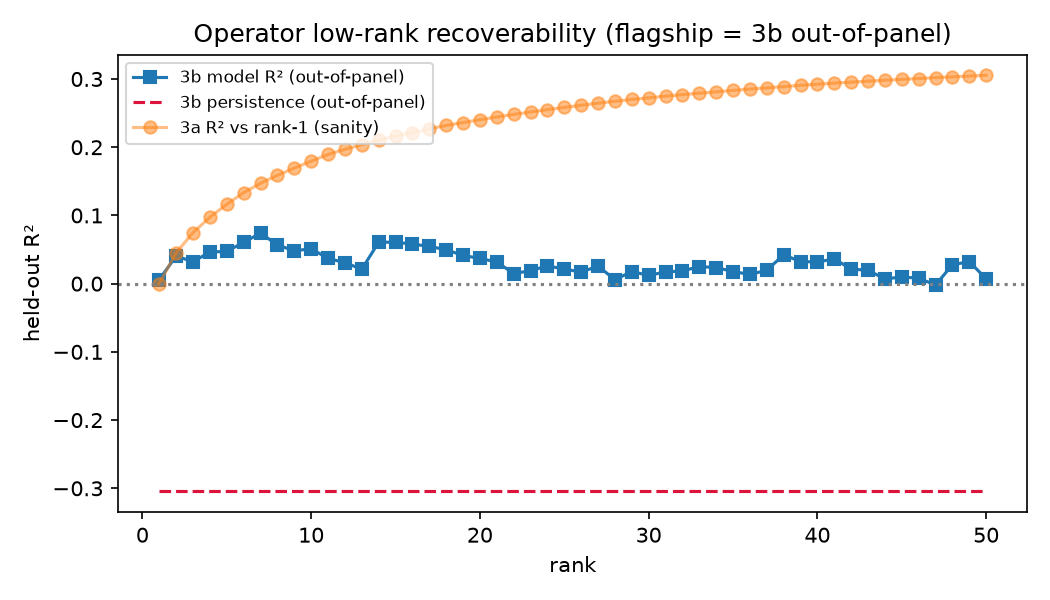
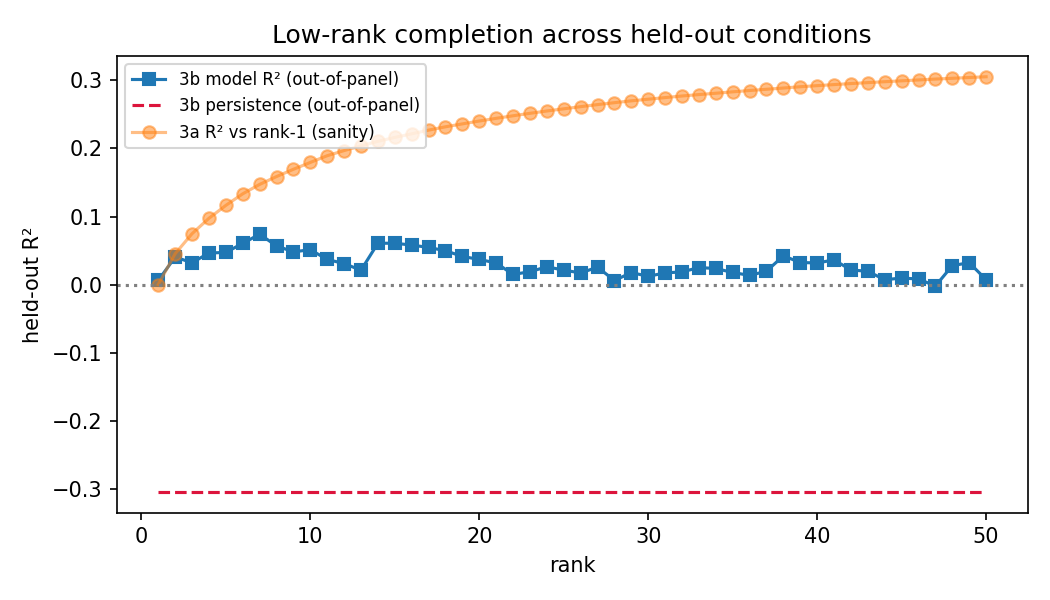
manuscript: final editorial pass — de-flagship, soften overclaims, harmonize, terminology, Code availability
Reviewer's final polish:
1. Figure 2 title 'Operator low-rank recoverability (flagship = 3b out-of-panel)'
   -> 'Low-rank completion across held-out conditions' (regenerated from the frozen
   _3106 completion CSVs, curves unchanged; script title also fixed).
2. §3 closing 'convert the operator ... into a predictive object' -> 'establish the
   operator as a shared structure that supports condition completion' (so it does not
   compete with the inductive null).
3. Complex I: harmonize '8 of 13 holoenzyme subunits' with the figure's '10 NDUF*'
   -> '8 of the 13 CORUM holoenzyme members, with 10 NDUF-family genes present in the
   community overall'.
4. DOCK2/RPE1: drop the extra inference from absence -> 'its absence is consistent
   with the essential-scale design and prevents direct validation of the anchor'.
5. §4.2 'the partition is real' -> 'the community structure is strongly supported
   relative to the matched null'.
6. Terminology: reserve 'unseen regulators' for the inductive case; §3 and the Fig S1
   caption now say 'out-of-panel regulators' for transductive completion.
7. Remove ALL inline .py (and CLI-flag / internal-identifier) citations from Methods;
   add a consolidated 'Code availability' section listing the scripts by analysis.

PDF rebuilt clean.

diff --git a/scripts/operator_completion.py b/scripts/operator_completion.py
@@ -113,7 +113,7 @@ def main():
     ax.plot(ce["rank"], ce["r2_persistence_novel"], "--", c="crimson", label="3b persistence (out-of-panel)")
     ax.plot(ew["rank"], ew["r2_vs_rank1"], "o-", alpha=0.5, label="3a R² vs rank-1 (sanity)")
     ax.axhline(0, ls=":", c="grey"); ax.set_xlabel("rank"); ax.set_ylabel("held-out R²")
-    ax.legend(fontsize=8); ax.set_title("Operator low-rank recoverability (flagship = 3b out-of-panel)")
+    ax.legend(fontsize=8); ax.set_title("Low-rank completion across held-out conditions")
     fig.tight_layout(); fig.savefig(FIG / "35_operator_completion_curve.png", dpi=150)
 
     print(f"[3b FLAGSHIP] out-of-panel n={int(ce.n_test_novel.iloc[0])}; "

diff --git a/docs/manuscript/08_methods.md b/docs/manuscript/08_methods.md
@@ -21,7 +21,7 @@ standardized at the layer level across the full regulator population rather than
 
 ## Operator tensor construction
 
-The operator is assembled as a regulator × gene × condition tensor (`build_operator_tensor.py`).
+The operator is assembled as a regulator × gene × condition tensor.
 Genes are the top-variance panel (2,000 genes by default). Regulators are selected by a
 per-condition cell-count floor (retaining regulators above the median), which yields 3,106
 regulators for the escalated analysis and 800 for the validation pilot. After the z-score fetch, a
@@ -32,8 +32,8 @@ passes at ρ = −0.006, and a power gate on the leading singular subspace holds
 ## CP decomposition
 
 The tensor is decomposed with a masked CANDECOMP/PARAFAC factorization
-(`decompose_operator_cp.py`; `tensorly` `parafac` with a missingness mask, `n_iter_max = 400`,
-`n_init = 10`, `random_state = 0`). Before fitting, condition slabs are RMS scale-controlled so
+(`tensorly` `parafac` with a missingness mask, `n_iter_max = 400`, `n_init = 10`,
+`random_state = 0`). Before fitting, condition slabs are RMS scale-controlled so
 that a single high-variance condition cannot dominate the fit. Rank is selected by split-half
 stability: for each candidate rank we compute the matched-factor cosine between decompositions of
 two random halves (subsample 400), and take the largest rank whose stability exceeds 0.70. Each
@@ -46,20 +46,18 @@ rotation change, `tol = 1e-6`).
 
 ## Out-of-panel completion
 
-Predictive structure is assessed by low-rank matrix completion of a held-out condition fiber
-(`operator_completion.py`, kernels in `scripts/_opkernels.py`). We hold out the late-stimulation
-(Stim48hr) entries of regulators outside the original variance-selected panel (a seed-0 20%
-sample; `--holdout 0.2 --seed 0`), fit a low-rank model to the remaining entries, and predict the
-held-out fiber. Standardization is computed on the training entries only
-(`train_test_standardize`, centering each gene on its train-mask values) to prevent leakage.
-Completion uses soft-impute with a truncated SVD (`soft_impute`, `n_iter = 100`, `tol = 1e-4`); the
-truncated solver (`scipy.sparse.linalg.svds`) is numerically identical to a full-SVD soft-impute to
-machine precision (a regression test asserts agreement to ~1e-13) and is roughly an order of
-magnitude faster. The baseline is persistence — predicting the late-stimulation response equals the
+Predictive structure is assessed by low-rank matrix completion of a held-out condition fiber. We
+hold out the late-stimulation (Stim48hr) entries of regulators outside the original
+variance-selected panel (a seed-0 20% sample), fit a low-rank model to the remaining entries, and
+predict the held-out fiber. Standardization is computed on the training entries only (centering each
+gene on its train-mask values) to prevent leakage. Completion uses soft-impute with a truncated SVD
+(`n_iter = 100`, `tol = 1e-4`); the truncated solver is numerically identical to a full-SVD
+soft-impute to machine precision (a regression test asserts agreement to ~1e-13) and is roughly an
+order of magnitude faster. The baseline is persistence — predicting the late-stimulation response equals the
 early-stimulation one. We report the model−persistence margin per rank, and stratify the held-out
-regulators by knockdown strength (`operator_completion_stratified.py`), with the stratum thresholds
-hardcoded and documented in that script: a median split on effect strength, and a panel-matched
-stratum (regulators at least as strong as the median in-panel regulator).
+regulators by knockdown strength, with the stratum thresholds documented alongside the results: a
+median split on effect strength, and a panel-matched stratum (regulators at least as strong as the
+median in-panel regulator).
 
 ## K562 cross-cell-type concordance
 
@@ -80,11 +78,11 @@ sign and magnitude of their concordance Z-score.
 
 ## Reproducibility
 
-The full operator pipeline runs from `make operator` (tensor → SVD → CP → completion → donor
-angles). Numerical kernels are isolated in `scripts/_opkernels.py` and covered by a unit-test suite
-(17 tests, `tests/test_opkernels.py`), including the svds/full-SVD equivalence regression test.
-Random seeds are fixed (`random_state = 0`, `--seed 0`) throughout. All result tables cited in the
-text are written to `docs/tables/` with a `_3106` suffix for the escalated analysis, and the
+The full operator pipeline runs end-to-end from a single build command (tensor → SVD → CP →
+completion → donor angles). Numerical kernels are isolated in a tested module (17 unit tests),
+including the truncated-SVD/full-SVD equivalence regression test. Random seeds are fixed
+(`random_state = 0`) throughout. All result tables cited in the text are written to `docs/tables/`
+with a `_3106` suffix for the escalated analysis, and the
 pilot-scale tables are retained alongside them so the pilot↔escalation comparison is itself
 reproducible from disk.
 
@@ -101,8 +99,7 @@ Leiden (RBConfiguration objective) swept over resolution and 50 seeds (500 parti
 into a consensus co-assignment and re-clustered; communities with mean intra-community co-assignment
 s_c ≥ 0.8 are stability-gated. Consensus modularity was compared to a label-permutation null
 (z = 259). Community identity was tested by hypergeometric CORUM enrichment (BH-FDR) over complexes
-with ≥ 2 panel members. (`scripts/operator_communities.py`, `operator_community_null.py`,
-`operator_community_identity.py`.)
+with ≥ 2 panel members.
 
 ## Disease-risk enrichment of communities
 
@@ -111,7 +108,6 @@ Autoimmune genetic-risk load per community was the summed per-gene maximum Open 
 Enrichment was tested against a null resampling 10,000 length-decile-matched sets from the 3,106
 panel regulators (never the genome), reported with and without the chr6 MHC block (~28–34 Mb)
 excluded from module and universe. Results are reported as nominations, not causal claims.
-(`scripts/community_gwas.py`.)
 
 ## RPE1 third-cell-type concordance
 
@@ -121,7 +117,6 @@ intersection and gene-level collapse identical to K562. A pre-registered overlap
 ≥ 100 shared regulators; 962 shared) was checked before analysis. SAGA universality was read from the
 SAGA subunits present in the essential-scale set; the T-cell-specific side was assessed at the class
 level over the regulators classified T-specific in the CD4↔K562 comparison and also present in RPE1.
-(`scripts/analyze_rpe1_concordance.py`.)
 
 ## Inductive prediction of unseen regulators
 
@@ -133,4 +128,18 @@ the training mean, so a mean predictor scores 0. A ridge model (a full-rank indu
 completion) and a CatBoost gradient-boosted learner (one model per component of a train-fold SVD of
 the response, K ∈ {10, 30}) were each compared against an identical model trained on row-permuted
 features. Real and permuted features performed identically out of sample, so the negative rests on
-the shuffled control alone. (`scripts/imc_inductive.py`, `scripts/imc_nonlinear.py`.)
+the shuffled control alone.
+
+## Code availability
+
+All analysis code is available in the accompanying repository. The pipeline is organized by analysis:
+operator tensor construction, SVD/CP decomposition, and out-of-panel completion
+(`build_operator_tensor.py`, `decompose_operator_cp.py`, `operator_completion.py`,
+`operator_completion_stratified.py`), with numerical kernels in `_opkernels.py` and unit tests in
+`tests/test_opkernels.py`; spectral denoising, consensus community detection, and community identity
+(`operator_communities.py`, `operator_community_null.py`, `operator_community_identity.py`); the
+Section&nbsp;3 insignia figure (`operator_insignia_figure.py`); community disease-risk enrichment
+(`community_gwas.py`); cross-cell-type concordance for K562 and RPE1 (`analyze_k562_concordance.py`,
+`analyze_rpe1_concordance.py`); and inductive prediction of unseen regulators (`imc_inductive.py`,
+`imc_nonlinear.py`). The full operator pipeline is driven by `make operator`; random seeds are fixed
+throughout, and all cited result tables are regenerated to `docs/tables/`.

diff --git a/docs/manuscript/04_modules.md b/docs/manuscript/04_modules.md
@@ -34,7 +34,8 @@ Consensus community detection (Leiden with an RBConfiguration objective, swept o
 50 random seeds, 500 partitions consensus-aggregated) yields eight communities, three of which pass
 a partition-stability gate of s_c ≥ 0.8. The structure is overwhelmingly non-random: the consensus
 modularity Q = 0.506 sits **z = 259** above a label-permutation null. This is a property of the
-denoised operator, established before any community is named — the partition is real, and the
+denoised operator, established before any community is named — the community structure is strongly
+supported relative to the matched null, and the
 question of what the modules correspond to is therefore worth asking.
 
 ## 4.3 Blind community detection recovers mitochondrial Complex I
@@ -42,8 +43,8 @@ question of what the modules correspond to is therefore worth asking.
 The cleanest result in this work is what the clustering produces with no annotation in the loop.
 Of the three stability-gated communities, one (n = 87, 45% donor-reproducible) matches
 **Mitochondrial Respiratory Chain Complex I** (NADH dehydrogenase) under CORUM enrichment at
-BH-FDR 1.4 × 10⁻⁷ — 8 of 13 holoenzyme subunits, corroborated across seven Complex-I assembly and
-intermediate entries. **An annotation-blind partition recovered a known molecular complex.** The
+BH-FDR 1.4 × 10⁻⁷ — 8 of the 13 CORUM holoenzyme members, with 10 NDUF-family genes present in the
+community overall, corroborated across seven Complex-I assembly and intermediate entries. **An annotation-blind partition recovered a known molecular complex.** The
 community was defined purely by co-movement of perturbation signatures across the transcriptome and
 only afterward matched to a database; nothing about its construction knew the subunits belonged
 together. This single result validates the denoising, the fingerprint representation, and the

diff --git a/docs/manuscript/03_operator.md b/docs/manuscript/03_operator.md
@@ -76,7 +76,7 @@ low-dimensionality statement, but a carefully scoped one: it is the **predictive
 is low-dimensional (~7 components), not the operator as a whole. The operator's own effective rank,
 measured on its singular spectrum, is roughly an order of magnitude higher
 (Figure&nbsp;S1 (`docs/figures/32_operator_svd_scree_3106.png`)); the ~7-dimensional structure is the part of it that generalizes to
-unseen regulators. The distinction matters — a reader who took "low-rank operator" at face value
+out-of-panel regulators. The distinction matters — a reader who took "low-rank operator" at face value
 would expect a spectrum that collapses after seven components, and the spectrum does not. What is
 low-rank is the shared, transferable structure, and it is a property of this 3,106-regulator
 holdout configuration rather than an intrinsic constant of T-cell regulation.
@@ -94,8 +94,8 @@ decomposition finds coherent, condition-structured, partly-shared factors at 3,1
 positive evidence that the representation remains genuinely pooled at the expanded scale, not a
 mosaic of independent per-regulator effects.
 
-Taken together, these results convert the operator from a descriptive summary into a predictive
-object: a shared, low-dimensional structure that anticipates the unobserved late-stimulation
+Taken together, these results establish the operator as a shared structure that supports condition
+completion: a low-dimensional structure that anticipates the unobserved late-stimulation
 response of regulators outside the panel, robustly beats a fair baseline, and remains one pooled
 object at four times the scale at which it was first validated — with an absolute precision we
 report honestly as modest.

diff --git a/docs/manuscript/06_generalization.md b/docs/manuscript/06_generalization.md
@@ -82,8 +82,8 @@ of the 142 regulators classified T-specific in the CD4↔K562 comparison and als
 none become universal (mean concordance z = −0.013). We flag the honest limit rather than paper over
 it: DOCK2, the clean T-specific anchor, is not in RPE1's essential-scale screen at all — it is a
 hematopoietic-specific exchange factor, not a core-essential gene — so its arm is carried by the
-class-level result, not a direct measurement, and its very absence from a core-essential screen is
-itself weakly consistent with an immune-restricted role. Across three diverse backgrounds, SAGA
+class-level result, not a direct measurement; its absence is consistent with the essential-scale
+design and prevents direct validation of the anchor in RPE1. Across three diverse backgrounds, SAGA
 regulation reads as universal and the immune cytoskeletal module as T-cell-specific — a distinction
 built from data in three lineages rather than asserted from one.
 